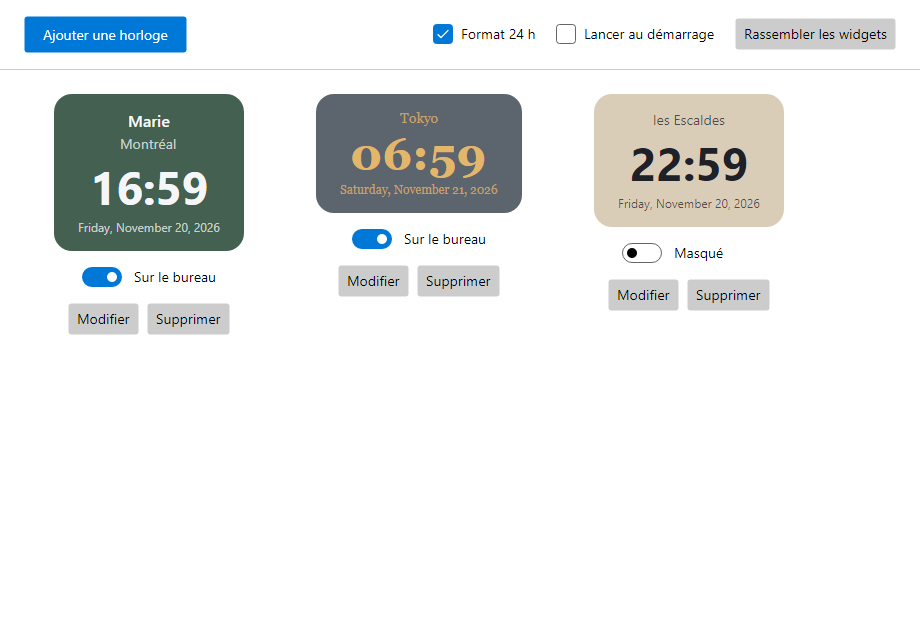
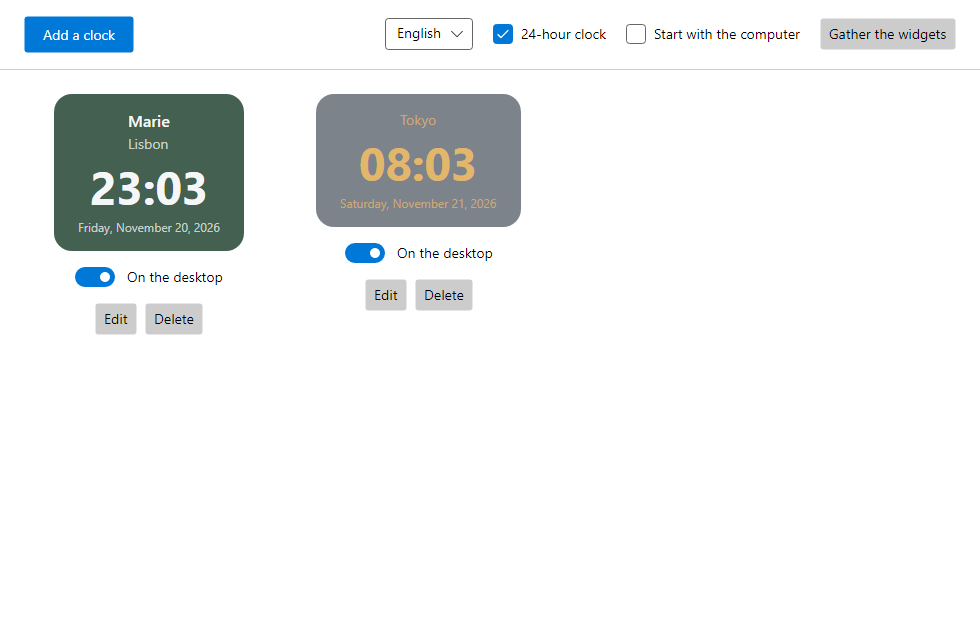
Document the three interface languages, refresh the screenshots

diff --git a/README.md b/README.md
@@ -13,9 +13,10 @@ Time zone clocks pinned to your desktop: one widget per city or per person, in p
 - **Your own text**: add a name above the clock, for example the person you call in that city, and show or hide it.
 - **Plain colors**: background and text color per clock, from a sober palette or any custom color, with an adjustable background opacity, and a font per clock.
 - **A switch per clock** shows or hides its widget on the desktop.
-- 24-hour or 12-hour format, start with the computer. The interface is in French; the date follows the language of your system.
+- 24-hour or 12-hour format, start with the computer.
+- Interface in **English, French and Spanish**, chosen in the main window; the dates follow the interface language.
 
-![The same list in the dark theme](images/worldclockr-dark.png)
+![Editing a clock](images/worldclockr-editor.png)
 
 ## Install
 
@@ -38,13 +39,14 @@ The installers are not code-signed yet, so the first launch shows a warning:
 
 | Action | How |
 |---|---|
-| Add a clock | **Ajouter une horloge**, then search a city, a country or a time zone and pick a result |
+| Add a clock | **Add a clock**, then search a city, a country or a time zone and pick a result (arrows and Enter work too) |
 | Move a widget | Drag it |
-| Edit a clock | **Modifier** in the list, or right-click the widget → Modifier… |
-| Show or hide a widget | The **Sur le bureau** switch in the list, or right-click the widget → Retirer du bureau |
-| Bring every widget back to the main screen | **Rassembler les widgets** |
+| Edit a clock | **Edit** in the list, or right-click the widget → Edit… |
+| Show or hide a widget | The **On the desktop** switch in the list, or right-click the widget → Remove from the desktop |
+| Bring every widget back to the main screen | **Gather the widgets** |
+| Change the language | The language list at the top of the main window |
 | Open the window | The WorldClockr icon in the notification area (Windows) or the menu bar (macOS), or start WorldClockr again |
-| Quit | The same icon → **Quitter**. Closing the window keeps the widgets on the desktop |
+| Quit | The same icon → **Quit**. Closing the window keeps the widgets on the desktop |
 
 ## Privacy
 
